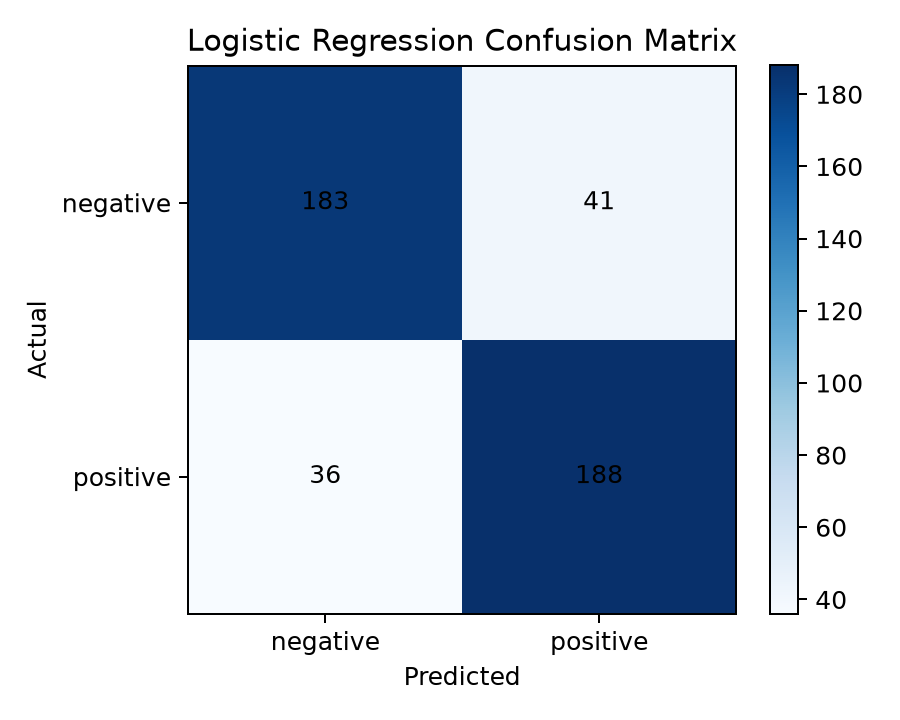
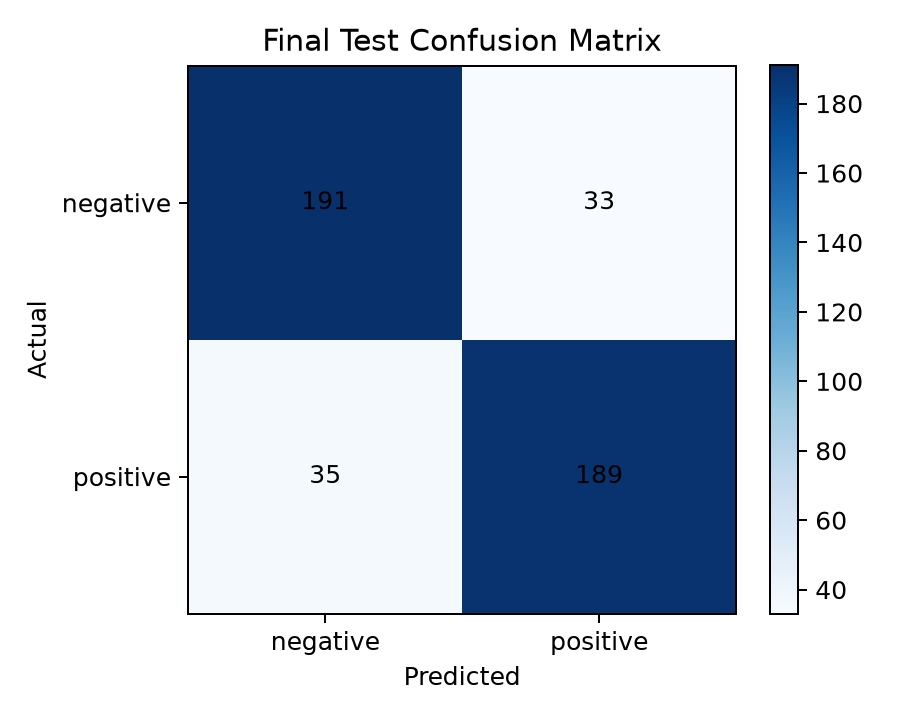
fix validation protocol and batch inference (#1)

diff --git a/src/benchmark.py b/src/benchmark.py
@@ -1,6 +1,7 @@
 from __future__ import annotations
 
 import json
+import shutil
 import time
 from pathlib import Path
 import joblib
@@ -9,7 +10,8 @@ matplotlib.use("Agg")
 import matplotlib.pyplot as plt
 import numpy as np
 import pandas as pd
-from sklearn.metrics import (accuracy_score, average_precision_score, classification_report, confusion_matrix, f1_score, precision_score, recall_score, roc_auc_score)
+from sklearn.calibration import calibration_curve
+from sklearn.metrics import (accuracy_score, average_precision_score, brier_score_loss, classification_report, confusion_matrix, f1_score, precision_score, recall_score, roc_auc_score)
 from sklearn.model_selection import StratifiedKFold, cross_val_score
 
 from src.config import load_config
@@ -31,39 +33,84 @@ def bootstrap_ci(y_true, y_pred, seed=42, rounds=1000):
     return [float(np.quantile(values, .025)), float(np.quantile(values, .975))]
 
 
+def classification_metrics(y_true, prediction, probabilities) -> dict:
+    binary = (np.asarray(y_true) == "positive").astype(int)
+    return {"accuracy": accuracy_score(y_true, prediction),
+        "precision": precision_score(y_true, prediction, pos_label="positive", zero_division=0),
+        "recall": recall_score(y_true, prediction, pos_label="positive", zero_division=0),
+        "f1": f1_score(y_true, prediction, pos_label="positive", zero_division=0),
+        "macro_f1": f1_score(y_true, prediction, average="macro"),
+        "weighted_f1": f1_score(y_true, prediction, average="weighted"),
+        "roc_auc": roc_auc_score(binary, probabilities),
+        "pr_auc": average_precision_score(binary, probabilities),
+        "brier_score": brier_score_loss(binary, probabilities)}
+
+
 def benchmark() -> dict:
     config = load_config(); processed = Path(config["data"]["processed_dir"]); output = Path(config["outputs"]["root"]); output.mkdir(parents=True, exist_ok=True)
     train = pd.read_csv(processed / "train.csv"); validation = pd.read_csv(processed / "validation.csv"); test = pd.read_csv(processed / "test.csv")
     all_data = pd.concat([train, validation, test], ignore_index=True); eda = run_eda(all_data, output / "eda")
-    x_train, y_train = train["clean_text"], train["sentiment"]; x_test, y_test = test["clean_text"], test["sentiment"]
+    x_train, y_train = train["clean_text"], train["sentiment"]
+    x_validation, y_validation = validation["clean_text"], validation["sentiment"]
+    x_test, y_test = test["clean_text"], test["sentiment"]
     results, fitted = [], {}
     cv = StratifiedKFold(n_splits=5, shuffle=True, random_state=int(config["project"]["seed"]))
     for name in MODEL_NAMES:
         model = build_pipeline(name, int(config["model"]["max_features"])); started = time.perf_counter(); model.fit(x_train, y_train); train_seconds = time.perf_counter() - started
-        started = time.perf_counter(); prediction = model.predict(x_test); inference_ms = (time.perf_counter() - started) * 1000 / len(test)
-        probabilities = scores_from_model(model, x_test); cv_scores = cross_val_score(build_pipeline(name, int(config["model"]["max_features"])), x_train, y_train, cv=cv, scoring="f1_macro", n_jobs=1)
-        row = {"model": name, "accuracy": accuracy_score(y_test, prediction), "precision": precision_score(y_test, prediction, pos_label="positive", zero_division=0), "recall": recall_score(y_test, prediction, pos_label="positive", zero_division=0), "f1": f1_score(y_test, prediction, pos_label="positive", zero_division=0), "macro_f1": f1_score(y_test, prediction, average="macro"), "weighted_f1": f1_score(y_test, prediction, average="weighted"), "roc_auc": roc_auc_score((y_test == "positive").astype(int), probabilities), "pr_auc": average_precision_score((y_test == "positive").astype(int), probabilities), "cv_f1_mean": cv_scores.mean(), "cv_f1_std": cv_scores.std(), "train_seconds": train_seconds, "inference_ms_per_row": inference_ms}
-        results.append(row); fitted[name] = (model, prediction, probabilities)
-    table = pd.DataFrame(results).sort_values("macro_f1", ascending=False); table.to_csv(output / "benchmark.csv", index=False)
-    production_name = config["model"]["production"]; production, prediction, probabilities = fitted[production_name]
+        started = time.perf_counter(); prediction = model.predict(x_validation); inference_ms = (time.perf_counter() - started) * 1000 / len(validation)
+        probabilities = scores_from_model(model, x_validation)
+        cv_scores = cross_val_score(build_pipeline(name, int(config["model"]["max_features"])), x_train, y_train, cv=cv, scoring="f1_macro", n_jobs=1)
+        row = {"model": name, **classification_metrics(y_validation, prediction, probabilities),
+            "native_probability": hasattr(model, "predict_proba"), "cv_f1_mean": cv_scores.mean(),
+            "cv_f1_std": cv_scores.std(), "train_seconds": train_seconds, "inference_ms_per_row": inference_ms}
+        results.append(row); fitted[name] = model
+    table = pd.DataFrame(results).sort_values("macro_f1", ascending=False)
+    table.to_csv(output / "benchmark.csv", index=False)
+
+    # The product contract requires native probabilities. Select only among
+    # eligible candidates on validation; the test split remains untouched.
+    require_probability = bool(config["model"].get("require_native_probability", True))
+    eligible = table[table.model != "dummy"]
+    if require_probability: eligible = eligible[eligible.native_probability]
+    if eligible.empty: raise ValueError("No probability-capable production candidate was evaluated")
+    production_name = str(eligible.iloc[0].model)
+    development = pd.concat([train, validation], ignore_index=True)
+    production = build_pipeline(production_name, int(config["model"]["max_features"]))
+    production.fit(development["clean_text"], development["sentiment"])
+    started = time.perf_counter(); prediction = production.predict(x_test)
+    test_inference_ms = (time.perf_counter() - started) * 1000 / len(test)
+    probabilities = scores_from_model(production, x_test)
+    test_metrics = classification_metrics(y_test, prediction, probabilities)
+    test_metrics["inference_ms_per_row"] = test_inference_ms
     model_path = Path(config["outputs"]["model_path"]); model_path.parent.mkdir(parents=True, exist_ok=True)
     bundle = {"model": production, "model_name": production_name, "version": config["project"]["model_version"], "labels": ["negative", "positive"]}; joblib.dump(bundle, model_path, compress=3)
     errors = test.assign(prediction=prediction, positive_probability=probabilities); errors[errors.sentiment != errors.prediction].to_csv(output / "error_analysis.csv", index=False)
-    report = {"production_model": production_name, "test_rows": len(test), "metrics": next(row for row in results if row["model"] == production_name), "f1_95_ci": bootstrap_ci(y_test, prediction), "classification_report": classification_report(y_test, prediction, output_dict=True), "eda": eda}
+    report = {"selection_protocol": "candidates compared on validation; selected model refit on train+validation; test evaluated once",
+        "selection_metric": config["model"].get("selection_metric", "validation_macro_f1"),
+        "require_native_probability": require_probability, "production_model": production_name,
+        "train_rows": len(train), "validation_rows": len(validation), "test_rows": len(test),
+        "validation_results": results, "test_metrics": test_metrics, "f1_95_ci": bootstrap_ci(y_test, prediction),
+        "classification_report": classification_report(y_test, prediction, output_dict=True), "eda": eda}
     (output / "metrics.json").write_text(json.dumps(report, indent=2), encoding="utf-8")
-    plot_results(table, y_test, prediction, production, output)
+    plot_results(table, y_test, prediction, probabilities, production, output)
+    evidence_dir = Path("docs/screenshots"); evidence_dir.mkdir(parents=True, exist_ok=True)
+    evidence_files = {"model_comparison.png": "model-comparison.png",
+        "confusion_matrix.png": "confusion-matrix.png", "feature_importance.png": "feature-importance.png",
+        "calibration_curve.png": "calibration-curve.png"}
+    for source, destination in evidence_files.items(): shutil.copyfile(output / source, evidence_dir / destination)
     return report
 
 
-def plot_results(table, y_test, prediction, model, output):
-    fig, ax = plt.subplots(figsize=(9, 4.5)); ax.barh(table.model, table.macro_f1, color="#3478bf"); ax.set_xlim(.4, 1); ax.set_xlabel("Macro F1"); ax.set_title("Model benchmark"); ax.grid(axis="x", alpha=.2); fig.tight_layout(); fig.savefig(output / "model_comparison.png", dpi=180); plt.close(fig)
-    matrix = confusion_matrix(y_test, prediction, labels=["negative", "positive"]); fig, ax = plt.subplots(figsize=(5, 4)); image=ax.imshow(matrix,cmap="Blues"); fig.colorbar(image,ax=ax); ax.set(xticks=[0,1],yticks=[0,1],xticklabels=["negative","positive"],yticklabels=["negative","positive"],xlabel="Predicted",ylabel="Actual",title="Logistic Regression Confusion Matrix")
+def plot_results(table, y_test, prediction, probabilities, model, output):
+    fig, ax = plt.subplots(figsize=(9, 4.5)); ax.barh(table.model, table.macro_f1, color="#3478bf"); ax.set_xlim(.4, 1); ax.set_xlabel("Validation Macro F1"); ax.set_title("Validation model selection"); ax.grid(axis="x", alpha=.2); fig.tight_layout(); fig.savefig(output / "model_comparison.png", dpi=180); plt.close(fig)
+    matrix = confusion_matrix(y_test, prediction, labels=["negative", "positive"]); fig, ax = plt.subplots(figsize=(5, 4)); image=ax.imshow(matrix,cmap="Blues"); fig.colorbar(image,ax=ax); ax.set(xticks=[0,1],yticks=[0,1],xticklabels=["negative","positive"],yticklabels=["negative","positive"],xlabel="Predicted",ylabel="Actual",title="Final Test Confusion Matrix")
     for i in range(2):
         for j in range(2): ax.text(j,i,matrix[i,j],ha="center",va="center")
     fig.tight_layout(); fig.savefig(output / "confusion_matrix.png", dpi=180); plt.close(fig)
+    observed, predicted = calibration_curve((np.asarray(y_test) == "positive").astype(int), probabilities, n_bins=10, strategy="quantile")
+    fig, ax = plt.subplots(figsize=(5, 4)); ax.plot(predicted, observed, marker="o", label="model"); ax.plot([0, 1], [0, 1], "--", color="gray", label="ideal"); ax.set(xlabel="Mean predicted probability", ylabel="Observed positive rate", title="Test calibration curve"); ax.legend(); ax.grid(alpha=.2); fig.tight_layout(); fig.savefig(output / "calibration_curve.png", dpi=180); plt.close(fig)
     features = model.named_steps["features"].get_feature_names_out(); coef=model.named_steps["classifier"].coef_[0]; idx=np.r_[np.argsort(coef)[:12],np.argsort(coef)[-12:]]; colors=["#d9534f" if coef[i]<0 else "#2ca58d" for i in idx]
     fig,ax=plt.subplots(figsize=(9,7)); ax.barh([features[i] for i in idx],coef[idx],color=colors); ax.set_title("Most influential TF-IDF features"); fig.tight_layout(); fig.savefig(output / "feature_importance.png",dpi=180); plt.close(fig)
 
 
 if __name__ == "__main__": print(json.dumps(benchmark(), indent=2))
-

diff --git a/src/inference.py b/src/inference.py
@@ -25,6 +25,16 @@ def sentiment_probability(model, text: str, prediction: str) -> float:
     return positive if prediction == "positive" else 1 - positive
 
 
+def _sentiment_confidences(model, texts, predictions) -> np.ndarray:
+    if hasattr(model, "predict_proba"):
+        classes = list(model.classes_)
+        probabilities = model.predict_proba(texts)
+        return np.asarray([probabilities[index, classes.index(label)] for index, label in enumerate(predictions)])
+    scores = np.asarray(model.decision_function(texts), dtype=float)
+    positive = 1 / (1 + np.exp(-np.clip(scores, -30, 30)))
+    return np.where(np.asarray(predictions) == "positive", positive, 1 - positive)
+
+
 def predict(text: str, model_path: str | None = None) -> dict:
     clean = validate_text(text); bundle = load_bundle(model_path); model = bundle["model"]
     sentiment = str(model.predict([clean])[0]); confidence = sentiment_probability(model, clean, sentiment)
@@ -34,5 +44,17 @@ def predict(text: str, model_path: str | None = None) -> dict:
 
 def predict_batch(texts: list[str], model_path: str | None = None) -> list[dict]:
     if not texts or len(texts) > 5000: raise ValueError("Batch must contain between 1 and 5000 texts.")
-    return [predict(text, model_path) for text in texts]
-
+    clean_texts = [validate_text(text) for text in texts]
+    bundle = load_bundle(model_path); model = bundle["model"]
+    sentiments = model.predict(clean_texts)
+    confidences = _sentiment_confidences(model, clean_texts, sentiments)
+    results = []
+    for text, clean, sentiment, confidence in zip(texts, clean_texts, sentiments, confidences):
+        sentiment = str(sentiment); confidence = float(confidence)
+        topic, topic_keywords = classify_topic(clean)
+        risk = assess_risk(clean, sentiment, confidence, topic)
+        results.append({"text": text, "clean_text": clean, "sentiment": sentiment, "confidence": confidence,
+            "topic": topic, "topic_keywords": topic_keywords, "risk": risk["level"], "risk_score": risk["score"],
+            "risk_keywords": risk["matched_keywords"], "model_name": bundle["model_name"],
+            "model_version": bundle["version"], "disclaimer": risk["disclaimer"]})
+    return results

diff --git a/database/service.py b/database/service.py
@@ -23,6 +23,20 @@ def save_prediction(result: dict, source="api", engine=None) -> int:
         session.add(prediction); session.commit(); return review.id
 
 
+def save_predictions(results: list[dict], source="api", engine=None) -> list[int]:
+    """Persist one inference batch atomically with one session and one commit."""
+    if not results: return []
+    engine = engine or init_database()
+    with Session(engine) as session:
+        reviews = [Review(text=result["text"], source=source) for result in results]
+        session.add_all(reviews); session.flush()
+        session.add_all([Prediction(review_id=review.id, sentiment=result["sentiment"], confidence=result["confidence"],
+            topic=result["topic"], risk_level=result["risk"], risk_score=result["risk_score"],
+            model_version=result["model_version"]) for review, result in zip(reviews, results)])
+        session.commit()
+        return [review.id for review in reviews]
+
+
 def analytics_summary(engine=None) -> dict:
     engine = engine or init_database()
     with Session(engine) as session:
@@ -31,4 +45,3 @@ def analytics_summary(engine=None) -> dict:
         topics = dict(session.execute(select(Prediction.topic, func.count()).group_by(Prediction.topic)).all())
         high_risk = session.scalar(select(func.count()).select_from(Prediction).where(Prediction.risk_level == "high")) or 0
     return {"total_predictions": total, "sentiments": sentiments, "topics": topics, "high_risk": high_risk}
-

diff --git a/tests/test_api.py b/tests/test_api.py
@@ -6,6 +6,10 @@ from fastapi.testclient import TestClient
 ROOT=Path(__file__).resolve().parents[1]
 os.environ["DATABASE_URL"] = f"sqlite:///{ROOT / 'test_voc.sqlite3'}"
 from api.main import app
+from database.models import Prediction, Review
+from database.service import get_engine
+from sqlalchemy import func, select
+from sqlalchemy.orm import Session
 
 
 @pytest.fixture(scope="module")
@@ -22,5 +26,13 @@ def test_predict_and_validation(client):
 
 
 def test_batch(client):
-    response=client.post("/predict/batch",json={"texts":["Great service","Terrible broken product"]}); assert response.status_code==200 and response.json()["count"]==2
-
+    engine=get_engine(os.environ["DATABASE_URL"])
+    with Session(engine) as session:
+        reviews_before=session.scalar(select(func.count()).select_from(Review)) or 0
+        predictions_before=session.scalar(select(func.count()).select_from(Prediction)) or 0
+    response=client.post("/predict/batch",json={"texts":["Great service","Terrible broken product"]})
+    assert response.status_code==200 and response.json()["count"]==2
+    assert all("review_id" in item for item in response.json()["predictions"])
+    with Session(engine) as session:
+        assert session.scalar(select(func.count()).select_from(Review))==reviews_before+2
+        assert session.scalar(select(func.count()).select_from(Prediction))==predictions_before+2

diff --git a/api/main.py b/api/main.py
@@ -3,7 +3,7 @@ from __future__ import annotations
 from contextlib import asynccontextmanager
 from fastapi import FastAPI, HTTPException
 from api.schemas import BatchRequest, PredictRequest
-from database.service import analytics_summary, init_database, save_prediction
+from database.service import analytics_summary, init_database, save_prediction, save_predictions
 from src.config import load_config
 from src.inference import load_bundle, predict, predict_batch
 
@@ -38,11 +38,11 @@ def predict_one(request: PredictRequest):
 def predict_many(request: BatchRequest):
     try:
         results = predict_batch(request.texts)
-        for result in results: save_prediction(result, request.source)
-        return {"count": len(results), "predictions": results}
+        review_ids = save_predictions(results, request.source)
+        predictions = [{"review_id": review_id, **result} for review_id, result in zip(review_ids, results)]
+        return {"count": len(predictions), "predictions": predictions}
     except (ValueError, FileNotFoundError) as error: raise HTTPException(status_code=422, detail=str(error)) from error
 
 
 @app.get("/analytics/summary")
 def summary(): return analytics_summary()
-

diff --git a/tests/test_batch_inference.py b/tests/test_batch_inference.py
@@ -1,0 +1,29 @@
+import numpy as np
+
+import src.inference as inference
+
+
+class CountingModel:
+    classes_ = np.array(["negative", "positive"])
+
+    def __init__(self):
+        self.predict_calls = 0
+        self.probability_calls = 0
+
+    def predict(self, texts):
+        self.predict_calls += 1
+        return np.array(["positive"] * len(texts))
+
+    def predict_proba(self, texts):
+        self.probability_calls += 1
+        return np.tile([0.1, 0.9], (len(texts), 1))
+
+
+def test_maximum_batch_uses_one_vectorized_model_call(monkeypatch):
+    model = CountingModel()
+    monkeypatch.setattr(inference, "load_bundle", lambda path=None: {
+        "model": model, "model_name": "counting", "version": "test"})
+    results = inference.predict_batch(["great service"] * 5000)
+    assert len(results) == 5000
+    assert model.predict_calls == 1
+    assert model.probability_calls == 1

diff --git a/docs/EXPERIMENTS.md b/docs/EXPERIMENTS.md
@@ -7,28 +7,29 @@
 - Split: train 2,087, validation 447, test 448
 - Stratification: sentiment and source; random seed 42
 - Features: word and character TF-IDF, maximum 30,000 features
-- Validation: 5-fold stratified cross-validation on the training split
-- Test policy: the held-out test split is used for the reported final comparison
+- Development: 5-fold stratified cross-validation on train; candidate comparison on validation
+- Selection rule: highest validation macro F1 among non-dummy models with native `predict_proba`
+- Test policy: after selection, refit on train+validation and evaluate the selected model once on test
 
 数据处理、划分和模型参数均由代码固定，可从原始下载重新生成，不依赖手工修改的 CSV。
 
 ## Results / 结果
 
-| Model | Accuracy | Precision (+) | Recall (+) | F1 (+) | Macro F1 | ROC-AUC | PR-AUC |
-|---|---:|---:|---:|---:|---:|---:|---:|
-| LinearSVC | 0.8348 | — | — | — | 0.8348 | — | — |
-| Logistic Regression | 0.8281 | 0.8210 | 0.8393 | 0.8300 | 0.8281 | 0.9148 | 0.9287 |
-| MultinomialNB | 0.8237 | — | — | — | 0.8236 | — | — |
-| SGD Logistic | 0.8214 | — | — | — | 0.8213 | — | — |
-| Dummy | 0.5000 | — | — | — | 0.3333 | — | — |
+| Model | Validation Accuracy | Validation Macro F1 | 5-fold CV Macro F1 | Native probability |
+|---|---:|---:|---:|---:|
+| Logistic Regression | 0.8501 | 0.8501 | 0.8188 ± 0.0212 | yes |
+| MultinomialNB | 0.8456 | 0.8456 | 0.8206 ± 0.0182 | yes |
+| LinearSVC | 0.8277 | 0.8277 | 0.8236 ± 0.0213 | no |
+| SGD Logistic | 0.8210 | 0.8209 | 0.8164 ± 0.0222 | yes |
+| Dummy | 0.4989 | 0.3328 | 0.3337 ± 0.0003 | yes, excluded baseline |
 
 完整的逐模型数值由 `outputs/benchmark.csv` 生成。该目录被忽略，以确保结果必须通过训练代码复现。
 
 ## Selection / 模型选择
 
-LinearSVC achieved the best test macro F1. Logistic Regression was selected for the serving example because it provides calibrated-like native probabilities without an extra calibration stage and loses only 0.0067 macro F1 on this split. Confidence values should still not be interpreted as guaranteed correctness.
+Logistic Regression was selected before test evaluation because it had the highest validation macro F1 among candidates satisfying the native-probability product requirement. It was refit on train+validation, then evaluated once on test: macro F1 0.8482, ROC-AUC 0.9225, PR-AUC 0.9340, and Brier score 0.1164.
 
-LinearSVC 的 Macro F1 最高；服务层选择 Logistic Regression，是为了直接输出概率并保持实现简洁。该概率用于产品演示，不代表严格校准后的真实正确率。
+Logistic Regression 在满足原生概率要求的候选模型中取得最高验证集 Macro F1，因此在接触测试集结果之前即被选定。随后使用 train+validation 重训，并只在 test 上执行一次最终评估。原生概率不等同于已经校准，需结合 calibration curve 与 Brier score 解读。
 
 ## Reproduction / 复现
 
@@ -37,4 +38,4 @@ python scripts/prepare_data.py
 python -m src.benchmark
 ```
 
-Generated artifacts include metrics JSON, benchmark CSV, error cases, confusion matrix, feature coefficients and dataset-distribution charts.
+Generated artifacts include metrics JSON, validation benchmark CSV, test error cases, confusion matrix, calibration curve, feature coefficients and dataset-distribution charts.

diff --git a/README.md b/README.md
@@ -1,5 +1,7 @@
 # Customer Voice Intelligence / 客户之声智能分析平台
 
+[![CI](https://github.com/xiaoyao12740/customer-voice-intelligence/actions/workflows/ci.yml/badge.svg)](https://github.com/xiaoyao12740/customer-voice-intelligence/actions/workflows/ci.yml)
+
 [中文](#中文说明) · [English](#english)
 
 An end-to-end, evidence-driven NLP portfolio project for sentiment analysis, topic routing, complaint-risk triage, batch analytics and API serving.
@@ -21,19 +23,21 @@ An end-to-end, evidence-driven NLP portfolio project for sentiment analysis, top
 
 ### 真实实验结果
 
-固定随机种子 42；按 `sentiment + source` 分层切分为 2,087/447/448 条训练、验证和测试数据。下表均来自本仓库代码在留出测试集上的实际运行结果。
+固定随机种子 42；按 `sentiment + source` 分层切分为 2,087/447/448 条训练、验证和测试数据。候选模型只在验证集比较；产品要求模型提供原生概率，因此在符合条件的模型中按验证集 Macro F1 选择 Logistic Regression。随后用训练集和验证集重训，最终测试集只评估一次。
 
-| 模型 | Accuracy | Macro F1 | 5-fold CV Macro F1 |
+| 模型 | 验证集 Accuracy | 验证集 Macro F1 | 5-fold CV Macro F1 |
 |---|---:|---:|---:|
-| LinearSVC | 83.48% | **83.48%** | 82.36% ± 2.13% |
-| Logistic Regression | 82.81% | 82.81% | 81.88% ± 2.12% |
-| MultinomialNB | 82.37% | 82.36% | 82.06% ± 1.82% |
-| SGD Logistic | 82.14% | 82.13% | 81.64% ± 2.22% |
-| Dummy | 50.00% | 33.33% | — |
+| Logistic Regression | **85.01%** | **85.01%** | 81.88% ± 2.12% |
+| MultinomialNB | 84.56% | 84.56% | 82.06% ± 1.82% |
+| LinearSVC | 82.77% | 82.77% | 82.36% ± 2.13% |
+| SGD Logistic | 82.10% | 82.09% | 81.64% ± 2.22% |
+| Dummy | 49.89% | 33.28% | 33.37% ± 0.03% |
 
-生产示例选择 Logistic Regression：其 Macro F1 只比 LinearSVC 低 0.67 个百分点，但能直接输出概率，便于置信度展示和阈值扩展。其 ROC-AUC 为 91.48%，PR-AUC 为 92.87%，正类 F1 的 95% Bootstrap 区间为 78.84%–86.32%。
+锁定 Logistic Regression 后的最终测试结果为：Macro F1 84.82%、ROC-AUC 92.25%、PR-AUC 93.40%、Brier score 0.1164；正类 F1 的 95% Bootstrap 区间为 80.95%–88.25%。原生 `predict_proba` 不是“已经校准”的同义词，因此仓库同时输出 calibration curve 和 Brier score，置信度仍只用于辅助判断。
 
 ![Model comparison](docs/screenshots/model-comparison.png)
+
+![Calibration curve](docs/screenshots/calibration-curve.png)
 
 ### 界面与模型证据
 
@@ -122,7 +126,7 @@ uvicorn api.main:app --host 0.0.0.0 --port 8005
 streamlit run dashboard/app.py --server.port 8505
 ```
 
-The production example uses Logistic Regression for native probabilities, accepting a 0.67 percentage-point macro-F1 trade-off versus LinearSVC. See [experiment details](docs/EXPERIMENTS.md), [model card](docs/MODEL_CARD.md), and [API examples](docs/API.md).
+Candidate models are compared on validation only. Logistic Regression wins validation macro F1 among models that satisfy the native-probability product requirement; it is then refit on train+validation and evaluated once on the untouched test split. See [experiment details](docs/EXPERIMENTS.md), [model card](docs/MODEL_CARD.md), and [API examples](docs/API.md).
 
 ### Repository layout
 

diff --git a/docs/MODEL_CARD.md b/docs/MODEL_CARD.md
@@ -11,16 +11,19 @@ The model classifies short English customer-review sentences as positive or nega
 - TF-IDF feature union
 - Logistic Regression classifier
 - Version: 1.0.0
-- Held-out macro F1: 0.8281
-- ROC-AUC: 0.9148
-- Positive-class F1 95% bootstrap CI: [0.7884, 0.8632]
+- Selection: validation macro F1 among native-probability candidates
+- Held-out macro F1: 0.8482
+- ROC-AUC: 0.9225
+- PR-AUC: 0.9340
+- Brier score: 0.1164
+- Positive-class F1 95% bootstrap CI: [0.8095, 0.8825]
 
 ## Limitations / 局限
 
 - English only; binary labels only; no neutral or mixed-sentiment class.
 - Small, short-sentence dataset collected from Amazon, IMDb and Yelp.
 - Domain shift, sarcasm, negation and evolving language may reduce performance.
-- Probability output has not undergone a dedicated calibration study.
+- Native probability output is not guaranteed to be calibrated; inspect the included calibration curve and Brier score before threshold-dependent use.
 - Topic and risk outputs are deterministic keyword rules and must not be interpreted as learned predictions.
 
 ## Responsible use / 负责任使用
